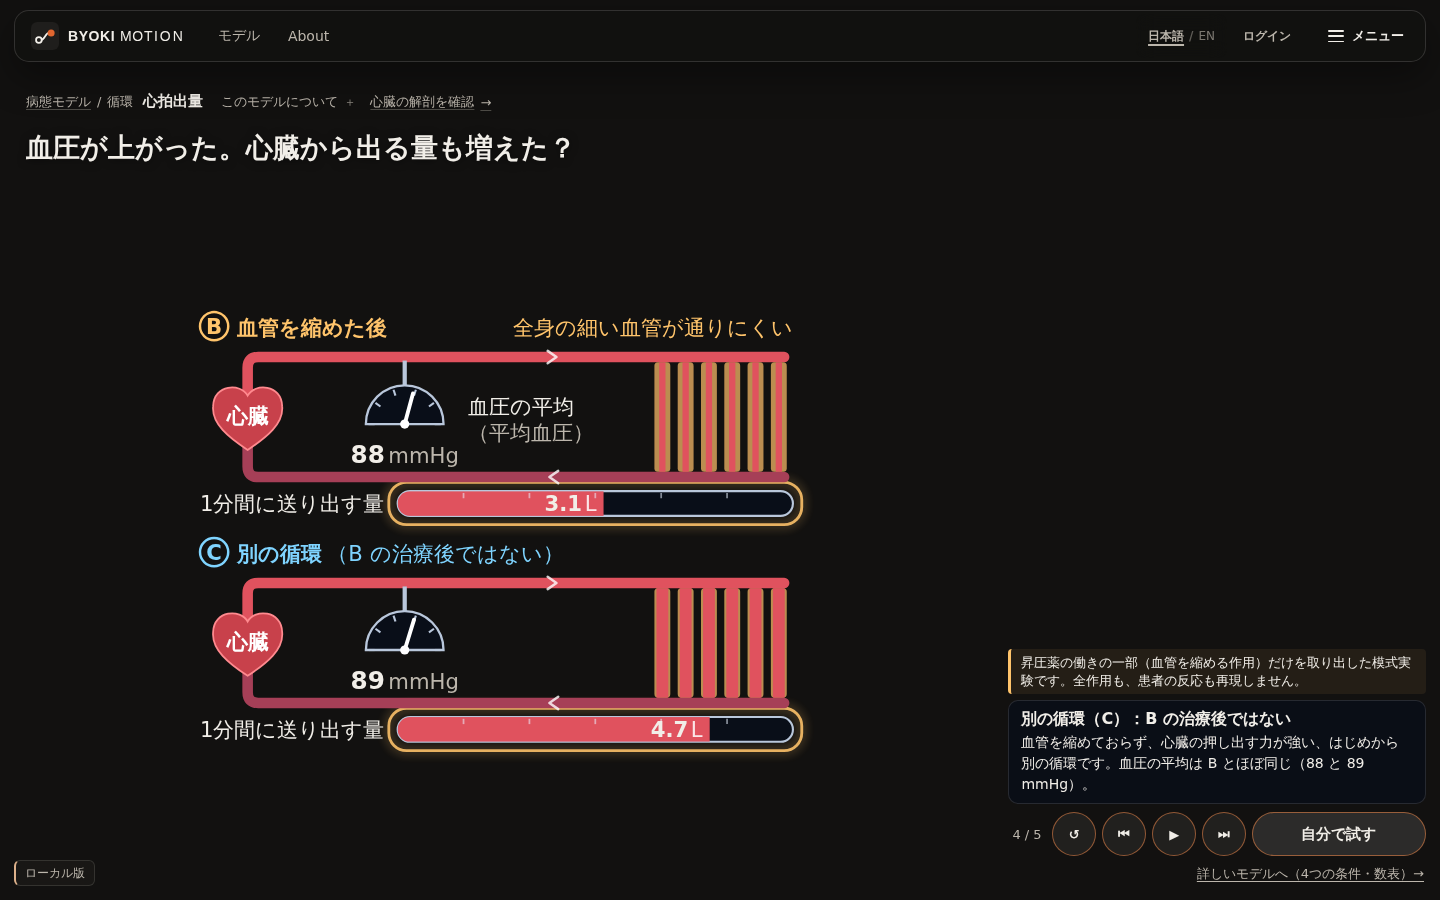
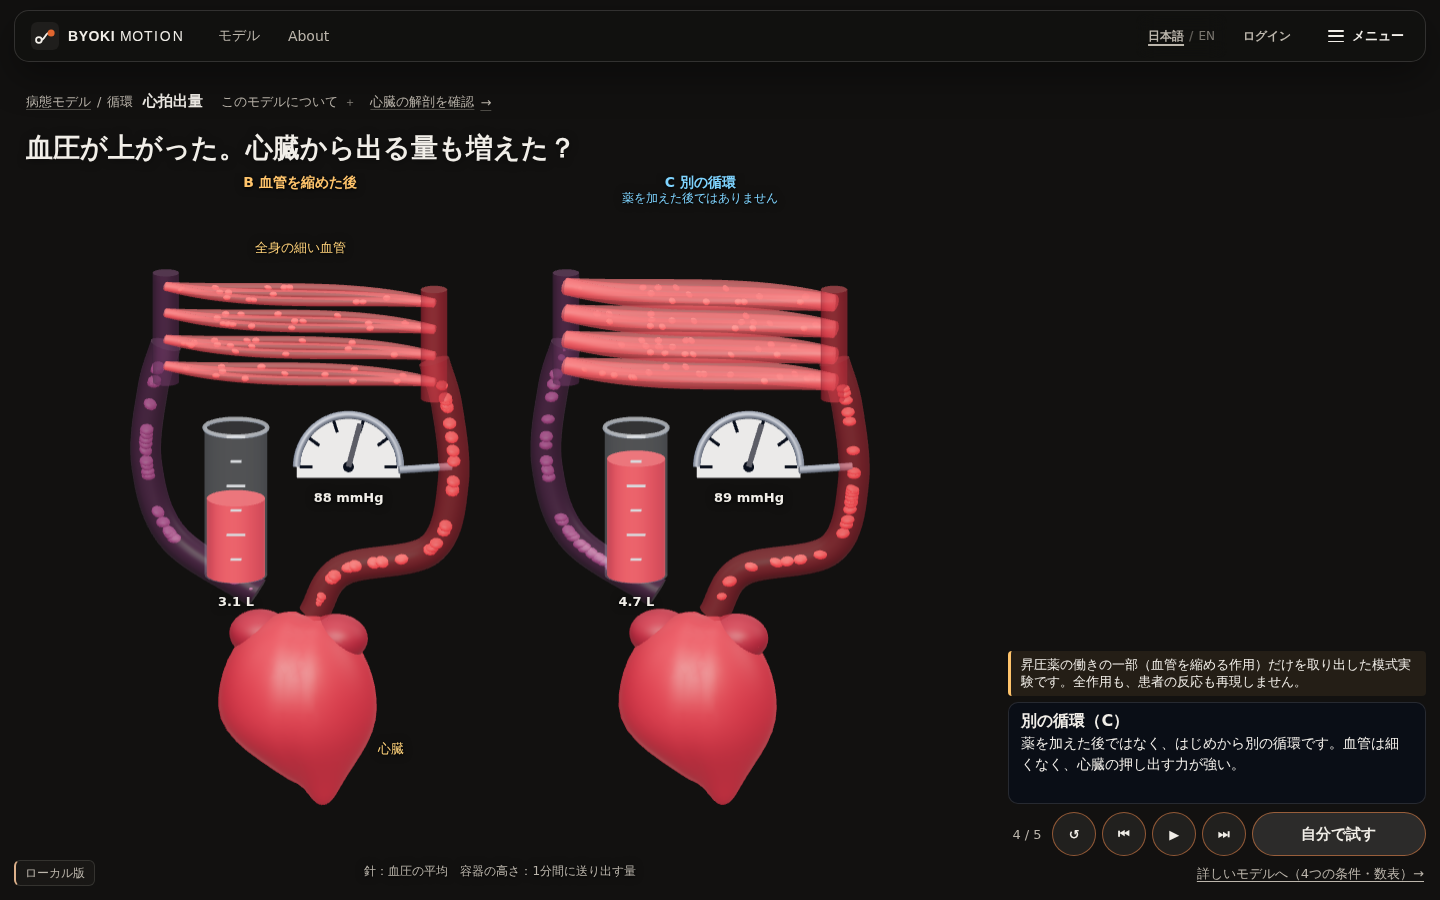
心拍出量・入門教材: 3D の模型のスクリーンショットとカードの写真を撮り直す
docs/screenshots/cardiac-output-lesson/ を 2026-10-02 の lesson-drive（3 幅・録画つき・
no problems）の出力に差し替え、README を 3D の図に合わせて書き直した。カードの写真は
拍動する心臓で撮り直した（前の 1 枚は、動きを止めていた不具合 L-182 の間に撮っていた）。
F-244 に 3D での所要時間（検査 約 6 分、録画つき 36 分 49 秒）。

Claude-Session: https://claude.ai/code/session_01X7Nejy22FgCAtvvWGqpmtw

diff --git a/docs/screenshots/cardiac-output-lesson/README.md b/docs/screenshots/cardiac-output-lesson/README.md
@@ -1,53 +1,61 @@
 # Cardiac output — the introductory lesson
 
 「血圧が上がった。心臓から出る量も増えた？」 — what `#/cardiac-output` opens on
-(the full model is at `#/cardiac-output?view=detail`; its only change is a
-fourth intervention in its menu, the same vessel-narrowing action).
+(the full model is at `#/cardiac-output?view=detail`, unchanged).
 
-Since the owner's review of 2026-10-01 the lesson draws **a circuit diagram,
-not a 3D heart**: the heart on the left, the artery along the top with a dial
-on it (the average pressure), six small vessels on the right whose width shows
-how easily blood gets through them, the vein back along the bottom, and under
-it a tube that fills with what the heart sends out per minute. A legend under
-the strip says what each part means until C takes its place.
+Since the owner's review of 2026-10-02 the lesson's figure is **one circulation
+as a 3D model, and the model carries the lesson**: the heart at the bottom,
+pumping; red cells flowing out of it in a surge on each squeeze, up the artery,
+through a bundle of small vessels standing for those of the whole body, and
+back down the vein; a dial on the artery for the average pressure; a jug whose
+level is what the heart sends out per minute. One orthographic camera that
+never moves; the main circulation (A, then B) on the left, the compared one (C)
+on the right, in places fixed from the first frame and drawn at one scale.
+(Before it: a flat circuit diagram, 2026-10-01 — now the fallback where WebGL
+is refused — and before that, a 3D heart whose meaning had to be read.)
 
 Driven, not posed: every file here was written by
-`npm run verify:disease -- <dir> cardiac-output --lesson-only`
-(`scripts/lib/lesson-drive.mjs`; add `--record-lesson` for the recordings) on
-2026-10-01, after main's rebrand (#168) was merged in, in a run that also
-asserted, at each of these moments, that the figure and its parts are the size they were on
-the first screen, that each strip's numbers, arrows and on-screen tube length
-are the solver's, that C is never beside anything but B, that the note on what
-the experiment is stands on screen, and that no word in the figure overlaps
-another or is drawn under 12 px on a phone; that on a phone the figure is drawn
-across at least 92% of the window (347×253 at 375×667, 362×264 at 390×844); and
-that 「このモデルについて」 opens on screen, holds the lesson's scope, and closes.
-Since the code review of 2026-10-01 the lesson makes no renderer: the ground
-behind the figure is the page's own colour, not a canvas. Production build served locally,
-headless Chromium. **Not a real device** (F-238), **not a first-time reader**
-(F-239), **not medically reviewed** (F-240).
+`npm run verify:disease -- <dir> cardiac-output --lesson-only --record-lesson`
+(`scripts/lib/lesson-drive.mjs`) on 2026-10-02, in a run that also asserted, at
+each of these moments, that the heart, the dial, the jug and the small vessels
+are boxed on the page where and as large as they were on the first screen;
+that B and C are drawn to one scale at one height; that the level and the
+needle **read back off the screen** are the solver's (run in Node), and so are
+the vessels' width, the cream marks for A and the two numbers on each
+circulation; that the level never left the range between B's and A's while the
+vessels widened back, and C arrived at its own level rather than filling from
+empty; that the heart pumps and the cells flow (and, with reduced motion asked
+for, neither moves); that C is never beside anything but B and says it is not
+after a drug; that the note on what the experiment is stands on screen; that no
+word on the figure overlaps another, leaves it, or is drawn under 12 px; that
+on a phone the heart is at least 72 px tall; and that 「このモデルについて」 opens
+on screen, holds the lesson's scope, and closes. Production build served
+locally, headless Chromium (software GL). **Not a real device** (F-238),
+**not a first-time reader** (F-239), **not medically reviewed** (F-240).
 
-Every figure on screen is the circulation model's own result for that
-condition; nothing here is drawn from a figure written by hand.
+Every value on screen is the circulation model's own result for that
+condition; nothing here is drawn from a figure written by hand. The heart is
+caught at whatever moment of the beat the shutter fell on.
 
 | File | Window | Moment |
 | --- | --- | --- |
-| `1440-0-first.png` | 1440×900 | First screen: the question, A as a circuit with its parts named, the legend, the note on what the experiment is, 「血管を縮める作用を加える」 and 「▶ 説明を再生」. No modal, no scroll; "compare" is not offered yet |
-| `1440-2-constrict.png` | 1440×900 | Scene 2 of 5: the action added — all six small vessels narrow together, lit (not one narrowing, not fewer vessels) |
-| `1440-3-result.png` | 1440×900 | Scene 3: B. The needle up from the cream needle of the start (71 → 88 mmHg ↑); the tube shorter than the cream 「開始時」 mark (3.7 → 3.1 L ↓, "in this model"); 「実際の昇圧薬で必ずこうなるとは限りません。」 |
-| `1440-4-other.png` | 1440×900 | Scene 4: C under B — 「別の循環（B の治療後ではない）」, same scale, every part in the same column; about the same needle, a clearly longer tube |
-| `1440-5-conclusion.png` | 1440×900 | Scene 5: the conclusion — same minute, same heart rate, different output; the pressure alone cannot tell |
-| `1440-BC-no-words.png` | 1440×900 | B and C with **every word and number hidden**: the needles alike, the tubes not, B's vessels narrower |
+| `1440-0-first.png` | 1440×900 | First screen: the question, A pumping, the place kept for a second circulation, what the needle and the jug are, the note on what the experiment is, 「血管を縮める作用を加える」 and 「▶ 説明を再生」. No modal, no scroll; "compare" is not offered yet |
+| `1440-1-start.png` | 1440×900 | Scene 1 of 5: the heart sends blood out — the heart lit |
+| `1440-2-constrict.png` | 1440×900 | Scene 2: the action added — all twelve small vessels narrow together, lit, a cream sleeve at their old width; 「心臓には何もしていません」 |
+| `1440-3-result.png` | 1440×900 | Scene 3: B. The needle past the cream needle of the start (71 → 88 mmHg); the level under the cream ring (3.7 → 3.1 L, "in this model"); 「実際の昇圧薬で必ずこうなるとは限りません。」 |
+| `1440-4-other.png` | 1440×900 | Scene 4: C beside B — 「C 別の循環／薬を加えた後ではありません」, already flowing, same scale and height; its vessels and its heart lit |
+| `1440-5-conclusion.png` | 1440×900 | Scene 5: about the same needle, clearly different levels — the pressure alone cannot tell |
+| `1440-BC-no-words.png` | 1440×900 | B and C with **every word and number hidden**: the needles alike, the jugs not, B's vessels narrower |
+| `1440-about.png` | 1440×900 | 「このモデルについて」 on a wide window, hanging from its line |
 | `390-0-first.png` | 390×844 | First screen on a phone |
 | `390-BC.png` | 390×844 | B and C, reached with the buttons |
-| `375-0-first.png` | 375×667 | First screen on the smallest window the owner named: the figure at about one unit to one pixel, its smallest word 12 px |
+| `375-0-first.png` | 375×667 | First screen on the smallest window the owner named: the heart about 76 px tall |
 | `375-B.png` | 375×667 | B with the buttons; 「別の循環と比べる」 now offered |
-| `375-BC.png` | 375×667 | B and C with the buttons |
+| `375-BC.png` | 375×667 | B and C with the buttons; C's level about 13 px above B's (F-267) |
 | `375-BC-no-words.png` | 375×667 | The same with every word and number hidden |
-| `375-3-result-no-words.png` | 375×667 | Scene 3 with every word and number hidden: the vessels lit, the tube short of its cream start mark |
-| `375-handover.png` | 375×667 | The explanation left for the buttons half way through scene 2: the line under the figure says what is on screen now and what the cream marks are |
-| `375-about.png` | 375×667 | 「このモデルについて」 opened: the shared sheet from the foot of the screen, with the lesson's scope in it (and, on a phone, the way to the heart's anatomy further down). Over the buttons, not under them (L-166) |
-| `1440-about.png` | 1440×900 | The same sheet on a wide window, hanging from its line |
+| `375-3-result-no-words.png` | 375×667 | Scene 3 with every word and number hidden: the narrowed vessels in their sleeves, the needle past its cream twin, the level under its ring |
+| `375-handover.png` | 375×667 | The explanation left for the buttons half way through scene 2: the line under the figure says what is on screen now |
+| `375-about.png` | 375×667 | 「このモデルについて」 opened from the foot of the screen, over the buttons (L-166) |
 
 The two recordings per window (the explanation played through; the buttons —
 A, the action, C beside B, the action taken away so that C closes, and B again)

diff --git a/docs/follow-ups.md b/docs/follow-ups.md
@@ -5469,6 +5469,12 @@ disease ジョブ（公開中の機序シーンを全部走らせる）にも自
 ブラウザの導入もその中です。PR ごとの CI（`ci.yml` の disease は `copd` だけ）には
 影響しません。起動は `workflow_dispatch` のみ。
 
+**2026-10-02 更新**: 図が 3D の模型に戻りました。ローカルの software GL で、教材の 3 幅の
+検査は約 6 分（1440×900 が約 2.5 分。動きを減らす設定と WebGL を拒むページの確認を含む）、
+**録画つきでは 36 分 49 秒**です——録画 6 本が約 31 分で、1440×900 の 2 本だけで 14.5 分。
+録画なしの検査は 30 分の制限に収まる見込みですが、`--record-lesson` を CI で走らせると
+それだけで制限を超えます。CI ではまだ測っていません。
+
 - 確かめ方: 次に `scene-drive-validation.yml` を起動したとき、disease ジョブの所要時間と、
   教材の 3 幅の結果を見る
 - 候補: 教材を別ジョブに分ける（`--lesson-only` がそのためにある）／制限を延ばす
